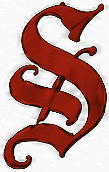
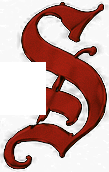
feat(golem): drawn blood-drop scrollbar (v5), collapsible type groups, S/J cap surgery, parchment reminders
- the scrollbar's visual layer is rebuilt from first principles as drawn
  SVG: the canonical teardrop silhouette (radial crimson body, dark rim,
  one glint) IS the thumb; scroll velocity stretches it liquid and it
  relaxes round; the trail is a tapered drawn run (no texture tiling —
  that was the chain) plus seeded dried beads where the drop has passed;
  drag/pointer-capture/lane/class-reassert lessons all kept
- the By-type group headers fold their boxes (caret, per-label state)
- the red S loses its confusing left crossbar curl; J is now the DOTLESS
  lowercase j promoted to cap — a real hooked J instead of the I stand-in
- reminder tokens (circle + chooser) sit on our amber parchment disc
  (reminder-golem.png; upstream art untouched)

Changed region(s): [[0.055, 0.3488, 0.4404, 0.6686]]

diff --git a/src/golem/bloodScrollbar.js b/src/golem/bloodScrollbar.js
@@ -1,21 +1,82 @@
-// Golem fork: the BLOOD-DRIP overlay scrollbar (v-blood-scroll).
-// The native bar had hit its ceiling — a browser thumb is a stretched 8px
-// rectangle. This directive hides it and renders the creative director's
-// drop art instead: the glossy drop IS the thumb, and the dried-run texture
-// grows down the track to the furthest point scrolled. The drop drags;
-// everything else stays click-transparent.
-import dropSprite from "../assets/blood/drip-drop.png";
-import trailTexture from "../assets/blood/drip-trail.png";
+// Golem fork: the BLOOD-DRIP overlay scrollbar (v-blood-scroll), v5 —
+// rebuilt from first principles (user call: the cropped-photo drop read as
+// anything but blood).
+//
+// The lessons the earlier versions taught, all kept:
+//   - Vue patches sibling views onto one element and wipes runtime classes:
+//     update() re-asserts blooddrip-host every pass
+//   - the overlay needs its own lane (padding-right) or it sits on content
+//   - the drop drags via pointer capture
+//   - the trail FOLLOWS the drop (scrolling up wipes it)
+//   - never TILE a texture — repetition reads as a chain; DRAW instead
+//
+// What's new: everything visual is drawn SVG.
+//   - the drop is the canonical teardrop SILHOUETTE (pointed crown, round
+//     bulb) with a radial crimson body, dark rim and one specular glint —
+//     the shape itself says "drop of blood"
+//   - liquid motion: scroll velocity stretches the drop long, and it eases
+//     back round at rest
+//   - the trail is a tapered run (thin at its top, swelling to meet the
+//     drop) plus seeded dried beads left where the drop has passed
+const LANE = 26; // reserved gutter
+const W = 18; // svg lane width
+const DROP_W = 15;
+const DROP_H = 24;
 
-const DROP_W = 15; // slimmer — 20px bulged over content (user feedback)
-const DROP_H = Math.round((81 / 64) * DROP_W); // sprite ratio (bulb-focused crop)
+// the teardrop path in a 15x24 box: crown point -> symmetric cubics into
+// the bulb -> back up
+const DROP_PATH =
+  "M7.5 0 C8.6 5.4 15 10.2 15 16.1 A7.5 7.9 0 0 1 0 16.1 C0 10.2 6.4 5.4 7.5 0 Z";
+
+let uid = 0;
+
+function makeSvg(id) {
+  const ns = "http://www.w3.org/2000/svg";
+  const svg = document.createElementNS(ns, "svg");
+  svg.setAttribute("class", "blooddrip-svg");
+  svg.setAttribute("width", W);
+  svg.style.cssText = "position:absolute;left:0;top:0;pointer-events:none;overflow:visible;";
+  svg.innerHTML = `
+    <defs>
+      <radialGradient id="bdg-${id}" cx="42%" cy="38%" r="72%">
+        <stop offset="0%" stop-color="#c62828"/>
+        <stop offset="55%" stop-color="#8f1010"/>
+        <stop offset="100%" stop-color="#4a0606"/>
+      </radialGradient>
+      <linearGradient id="bdt-${id}" x1="0" y1="0" x2="0" y2="1">
+        <stop offset="0%" stop-color="rgba(90,10,10,0)"/>
+        <stop offset="18%" stop-color="rgba(112,14,14,0.55)"/>
+        <stop offset="100%" stop-color="rgba(140,18,18,0.8)"/>
+      </linearGradient>
+    </defs>
+    <path class="bd-trail" fill="url(#bdt-${id})"/>
+    <g class="bd-beads" fill="#6d0d0d"></g>
+    <g class="bd-drop">
+      <path d="${DROP_PATH}" fill="url(#bdg-${id})" stroke="rgba(40,4,4,0.8)" stroke-width="0.8"/>
+      <ellipse cx="5.1" cy="14.2" rx="2" ry="2.8" fill="rgba(255,235,228,0.4)"/>
+    </g>`;
+  return svg;
+}
+
+/** Tapered trail: hairline at the top, swelling to kiss the drop. */
+function trailPath(toY) {
+  if (toY <= 2) return "";
+  const cx = W / 2;
+  const wTop = 0.7,
+    wBot = 2.6;
+  return (
+    `M${cx - wTop} 0 L${cx + wTop} 0 ` +
+    `C${cx + wTop} ${toY * 0.4} ${cx + wBot} ${toY * 0.75} ${cx + wBot} ${toY} ` +
+    `L${cx - wBot} ${toY} ` +
+    `C${cx - wBot} ${toY * 0.75} ${cx - wTop} ${toY * 0.4} ${cx - wTop} 0 Z`
+  );
+}
 
 function update(el) {
   const s = el.__bloodScroll;
   if (!s) return;
   // Vue patches sibling views onto the SAME element and rewrites its class
-  // attribute, wiping this runtime class — the native bar came back beside
-  // the overlay (the "two scrollbars"). Re-assert it on every update.
+  // attribute — re-assert the runtime class every pass
   el.classList.add("blooddrip-host");
   const maxScroll = el.scrollHeight - el.clientHeight;
   if (maxScroll <= 4) {
@@ -24,79 +85,138 @@ function update(el) {
   }
   s.track.style.display = "";
   s.track.style.top = el.offsetTop + "px";
-  s.track.style.left = el.offsetLeft + el.clientWidth - DROP_W - 2 + "px";
+  s.track.style.left = el.offsetLeft + el.clientWidth - W - 2 + "px";
   s.track.style.height = el.clientHeight + "px";
+  s.svg.setAttribute("height", el.clientHeight);
+
   const travel = el.clientHeight - DROP_H;
   const y = (el.scrollTop / maxScroll) * travel;
-  s.drop.style.transform = `translateY(${y}px)`;
-  // the run FOLLOWS the drop — scrolling back up wipes it (user call)
-  s.trail.style.height = y + DROP_H * 0.5 + "px";
+
+  // liquid: velocity stretches the drop; it relaxes back round
+  const now = performance.now();
+  if (s.lastT) {
+    const v = Math.abs(el.scrollTop - s.lastTop) / Math.max(1, now - s.lastT);
+    s.stretch = Math.min(1.45, Math.max(s.stretch * 0.86, 1 + v * 0.35));
+  }
+  s.lastTop = el.scrollTop;
+  s.lastT = now;
+  const sy = s.stretch;
+  const sx = 1 / Math.sqrt(sy);
+
+  s.drop.setAttribute(
+    "transform",
+    `translate(${W / 2 - (DROP_W * sx) / 2} ${y}) scale(${sx} ${sy})`
+  );
+  s.trail.setAttribute("d", trailPath(y + DROP_H * 0.45));
+
+  // dried beads appear where the drop has passed (seeded, stable spots)
+  let beads = "";
+  for (let i = 0; i < s.beadSeeds.length; i++) {
+    const b = s.beadSeeds[i];
+    const by = b.f * travel;
+    if (by < y - DROP_H * 0.4) {
+      beads += `<circle cx="${W / 2 + b.dx}" cy="${by}" r="${b.r}" opacity="0.55"/>`;
+    }
+  }
+  s.beads.innerHTML = beads;
 }
 
 export default {
   inserted(el) {
     el.classList.add("blooddrip-host");
-    // the overlay needs its own lane — without this it sits on the rows'
-    // trailing content (the shelf's checkmarks)
     el.__prevPadRight = el.style.paddingRight;
-    el.style.paddingRight = "26px";
+    el.style.paddingRight = LANE + "px";
     const wrap = el.parentElement;
     if (wrap && getComputedStyle(wrap).position === "static")
       wrap.style.position = "relative";
 
     const track = document.createElement("div");
     track.className = "blooddrip-track";
-    const trail = document.createElement("div");
-    trail.className = "blooddrip-trail";
-    trail.style.backgroundImage = `url(${trailTexture})`;
-    const drop = document.createElement("img");
-    drop.className = "blooddrip-drop";
-    drop.src = dropSprite;
-    drop.draggable = false;
-    drop.style.width = DROP_W + "px";
-    track.appendChild(trail);
-    track.appendChild(drop);
+    const id = ++uid;
+    const svg = makeSvg(id);
+    track.appendChild(svg);
     wrap.appendChild(track);
 
-    el.__bloodScroll = { track, trail, drop };
+    // stable per-instance bead spots (no Math.random at render time —
+    // deterministic from the instance id)
+    const beadSeeds = [];
+    for (let i = 0; i < 5; i++) {
+      const h = ((id * 7 + i * 131) % 97) / 97;
+      beadSeeds.push({
+        f: 0.12 + 0.8 * h,
+        dx: ((i % 3) - 1) * 2.2,
+        r: 1 + ((i * 37) % 10) / 9
+      });
+    }
+
+    el.__bloodScroll = {
+      track,
+      svg,
+      drop: svg.querySelector(".bd-drop"),
+      trail: svg.querySelector(".bd-trail"),
+      beads: svg.querySelector(".bd-beads"),
+      stretch: 1,
+      lastTop: 0,
+      lastT: 0,
+      beadSeeds
+    };
 
     const onScroll = () => update(el);
     el.addEventListener("scroll", onScroll, { passive: true });
     const ro = new ResizeObserver(() => update(el));
     ro.observe(el);
+
+    // the drop drags — the track takes the pointer only over the drop lane
+    track.style.pointerEvents = "none";
+    const hit = document.createElement("div");
+    hit.className = "blooddrip-hit";
+    hit.style.cssText = `position:absolute;right:0;top:0;width:${W + 4}px;height:100%;pointer-events:auto;cursor:grab;`;
+    track.appendChild(hit);
+    hit.addEventListener("pointerdown", e => {
+      e.preventDefault();
+      hit.setPointerCapture(e.pointerId);
+      hit.style.cursor = "grabbing";
+      const rect = track.getBoundingClientRect();
+      const maxScroll = el.scrollHeight - el.clientHeight;
+      const travel = el.clientHeight - DROP_H;
+      const seek = ev => {
+        const y = ev.clientY - rect.top - DROP_H / 2;
+        el.scrollTop = Math.max(0, Math.min(1, y / travel)) * maxScroll;
+      };
+      seek(e);
+      const onMove = ev => seek(ev);
+      const onUp = () => {
+        hit.style.cursor = "grab";
+        hit.removeEventListener("pointermove", onMove);
+        hit.removeEventListener("pointerup", onUp);
+      };
+      hit.addEventListener("pointermove", onMove);
+      hit.addEventListener("pointerup", onUp);
+    });
+
     el.__bloodScroll.cleanup = () => {
       el.removeEventListener("scroll", onScroll);
       ro.disconnect();
       track.remove();
     };
 
-    // drag the drop to scroll
-    drop.addEventListener("pointerdown", e => {
-      e.preventDefault();
-      drop.setPointerCapture(e.pointerId);
-      const startY = e.clientY;
-      const startTop = el.scrollTop;
-      const maxScroll = el.scrollHeight - el.clientHeight;
-      const travel = el.clientHeight - DROP_H;
-      const onMove = ev => {
-        el.scrollTop = startTop + ((ev.clientY - startY) / travel) * maxScroll;
-      };
-      const onUp = () => {
-        drop.removeEventListener("pointermove", onMove);
-        drop.removeEventListener("pointerup", onUp);
-      };
-      drop.addEventListener("pointermove", onMove);
-      drop.addEventListener("pointerup", onUp);
-    });
+    // the ease-back needs a few relax frames after scrolling stops
+    const relax = () => {
+      const st = el.__bloodScroll;
+      if (!st) return;
+      if (st.stretch > 1.005) update(el);
+      st.raf = requestAnimationFrame(relax);
+    };
+    el.__bloodScroll.raf = requestAnimationFrame(relax);
 
     update(el);
   },
   componentUpdated(el) {
-    // content changes (filters, script swaps) move the geometry
     requestAnimationFrame(() => update(el));
   },
   unbind(el) {
     if (el.__bloodScroll) {
+      cancelAnimationFrame(el.__bloodScroll.raf);
       el.__bloodScroll.cleanup();
       delete el.__bloodScroll;
     }

diff --git a/src/components/modals/EditionModal.vue b/src/components/modals/EditionModal.vue
@@ -370,10 +370,16 @@
               :key="group.label"
               :class="[group.team ? 'team-' + group.team : '', { dim: group.dim }]"
             >
-              <h4>
+              <!-- click a type header to fold its box (user call) -->
+              <h4 class="wb-fold" @click="toggleGroupFold(group.label)">
                 {{ group.label }} <small>({{ group.roles.length }})</small>
+                <font-awesome-icon
+                  class="caret"
+                  :icon="foldedGroups[group.label] ? 'chevron-down' : 'chevron-down'"
+                  :class="{ open: !foldedGroups[group.label] }"
+                />
               </h4>
-              <ul class="wb-cards">
+              <ul class="wb-cards" v-show="!foldedGroups[group.label]">
                 <li
                   v-for="role in group.roles"
                   :key="role.id"
@@ -949,6 +955,8 @@ export default {
       // FT-856 slice B: the icon tabs — official borrow vs the new-icon
       // library (game-icons.net curation, lazy chunk).
       iconTab: "library",
+      // By-type group folding (click the header)
+      foldedGroups: {},
       ilSearch: "",
       ilTheme: "",
       ilLoaded: false,
@@ -1549,6 +1557,9 @@ export default {
       this.roleError = "";
     },
     /** Click an icon to select it; click again to clear (icon is optional). */
+    toggleGroupFold(label) {
+      this.$set(this.foldedGroups, label, !this.foldedGroups[label]);
+    },
     pickIcon(id) {
       this.roleForm.icon = this.roleForm.icon === id ? "" : id;
       // an official borrow replaces any baked library pick
@@ -2636,6 +2647,25 @@ $team-colors: (
     opacity: 0.7;
   }
 }
+// By-type group folding: the header is the control
+.wb-groups h4.wb-fold {
+  cursor: pointer;
+  user-select: none;
+  .caret {
+    margin-left: 8px;
+    font-size: 0.7em;
+    opacity: 0.6;
+    transition: transform 160ms ease;
+    transform: rotate(-90deg);
+    &.open {
+      transform: rotate(0);
+    }
+  }
+  &:hover .caret {
+    opacity: 1;
+  }
+}
+
 // Wakes: its own block — title line, one themed checkbox row per night
 .role-form .wakes-block {
   display: flex;

diff --git a/src/components/Player.vue b/src/components/Player.vue
@@ -1085,7 +1085,8 @@ li.move:not(.from) .player .overlay svg.move {
 
 /***** Reminder token *****/
 .circle .reminder {
-  background: url("../assets/reminder.png") center center;
+  // Golem fork: our parchment reminder disc (upstream reminder.png untouched)
+  background: url("../assets/reminder-golem.png") center center;
   background-size: 100%;
   width: 50%;
   height: 0;

diff --git a/src/components/modals/ReminderModal.vue b/src/components/modals/ReminderModal.vue
@@ -115,7 +115,7 @@ export default {
 
 <style scoped lang="scss">
 ul.reminders .reminder {
-  background: url("../../assets/reminder.png") center center;
+  background: url("../../assets/reminder-golem.png") center center;
   background-size: 100%;
   width: 14vh;
   height: 14vh;
